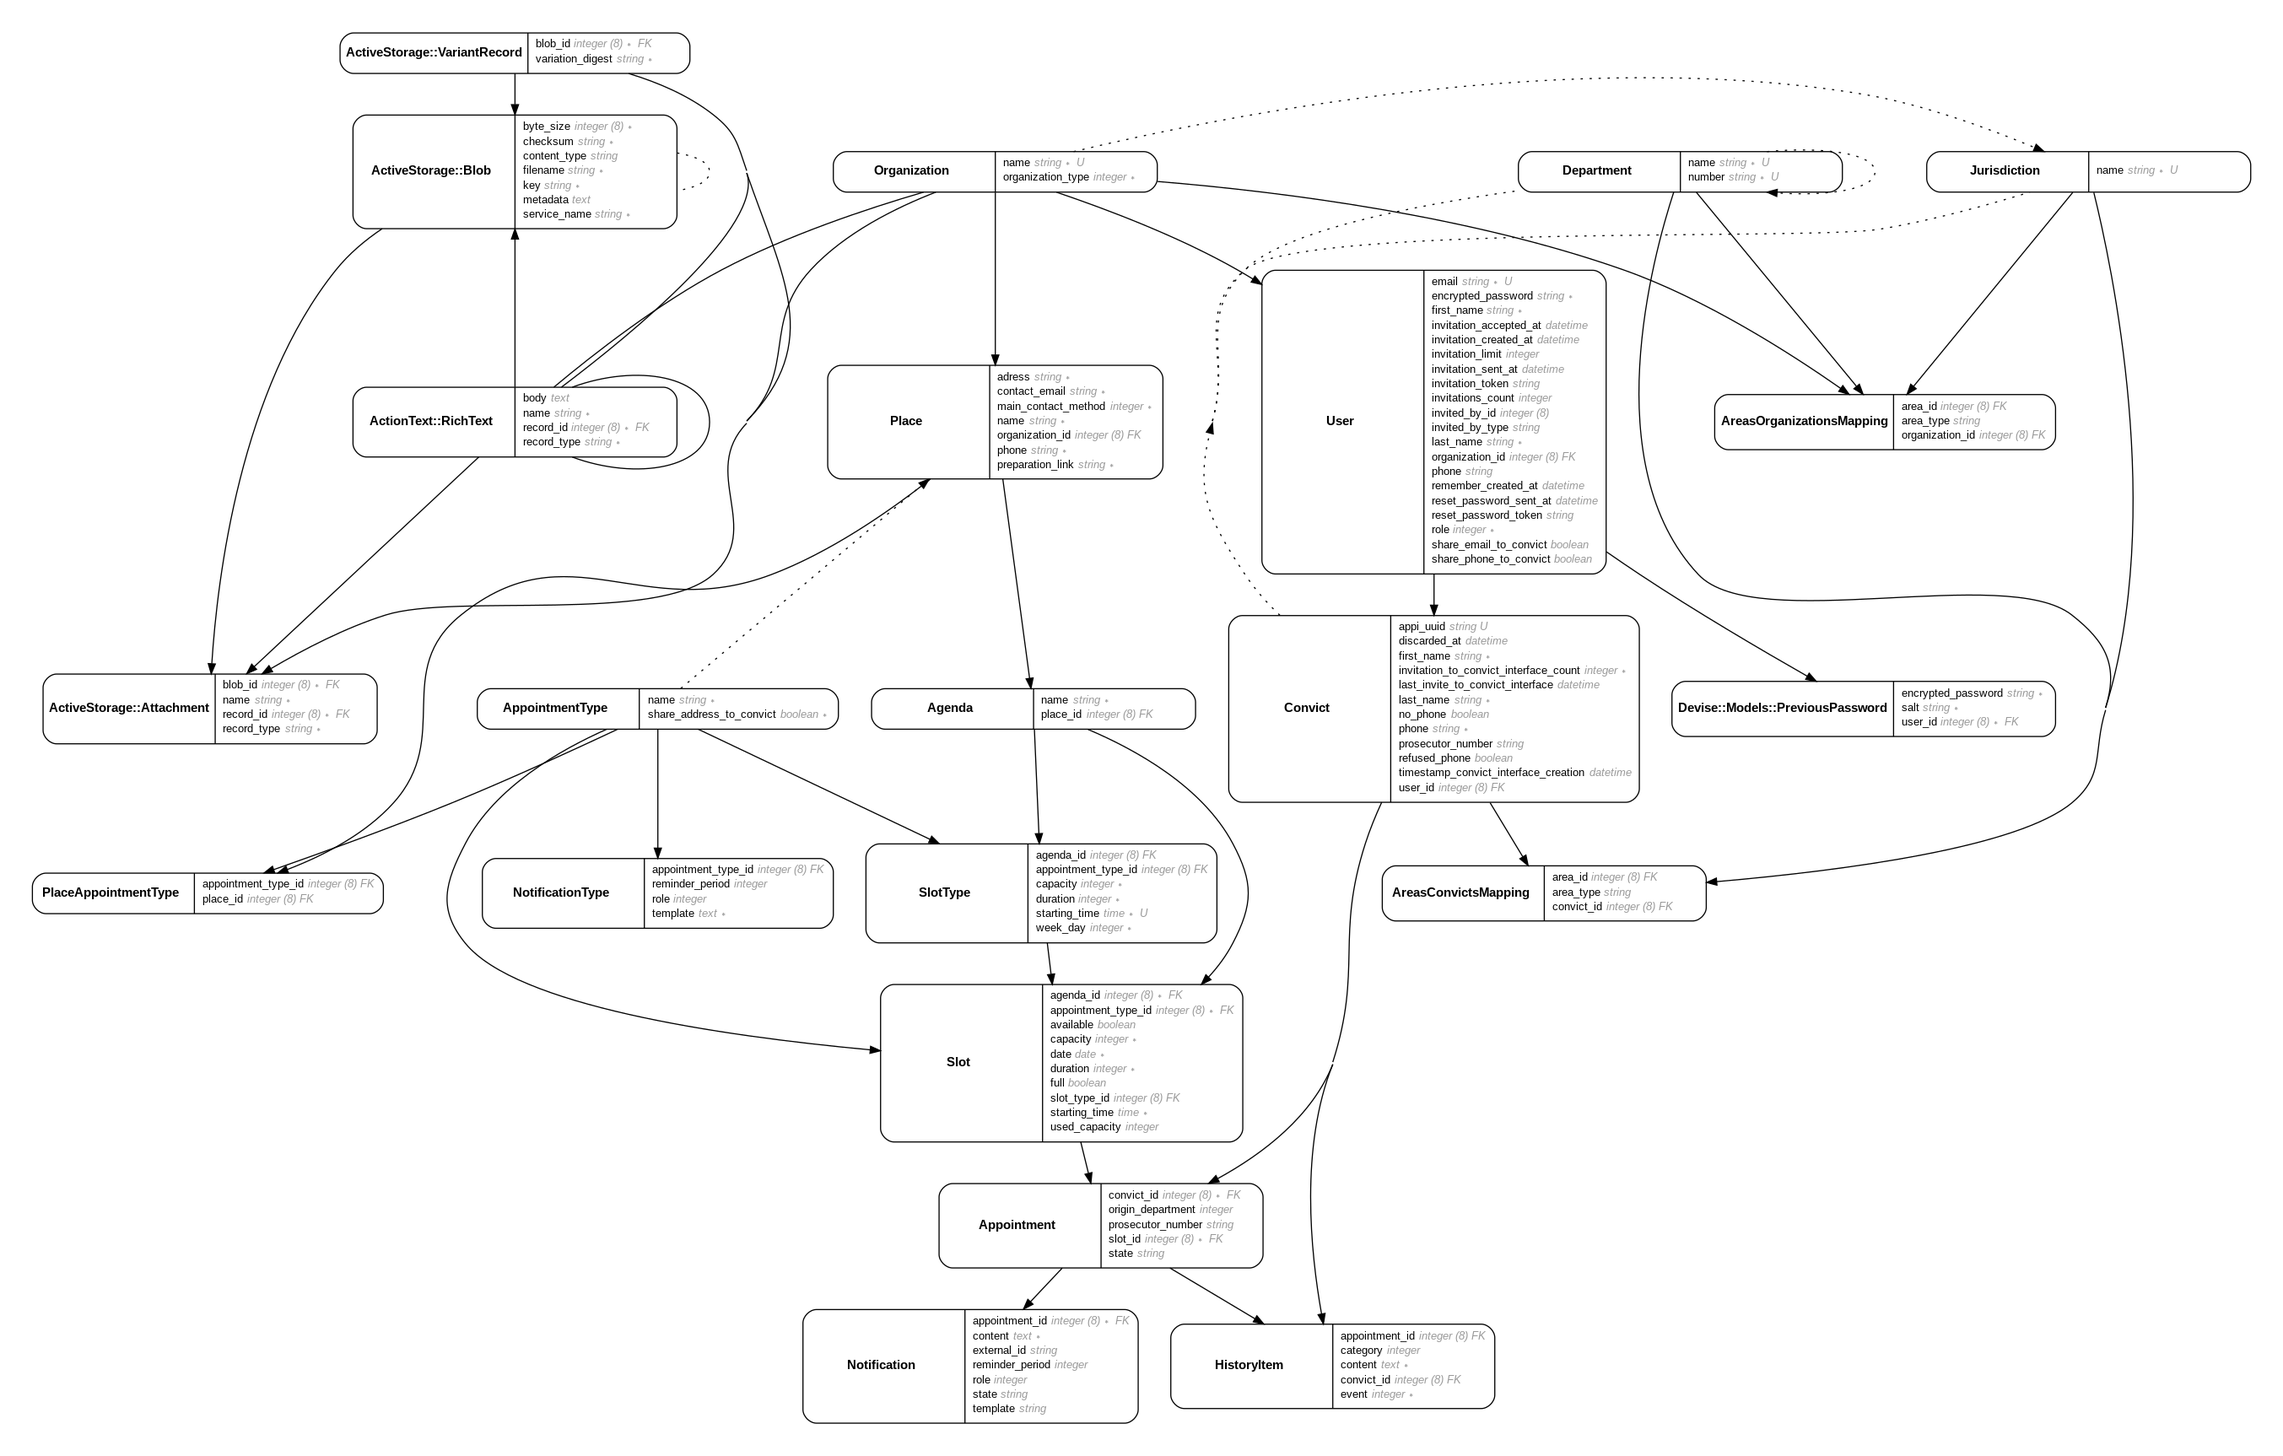
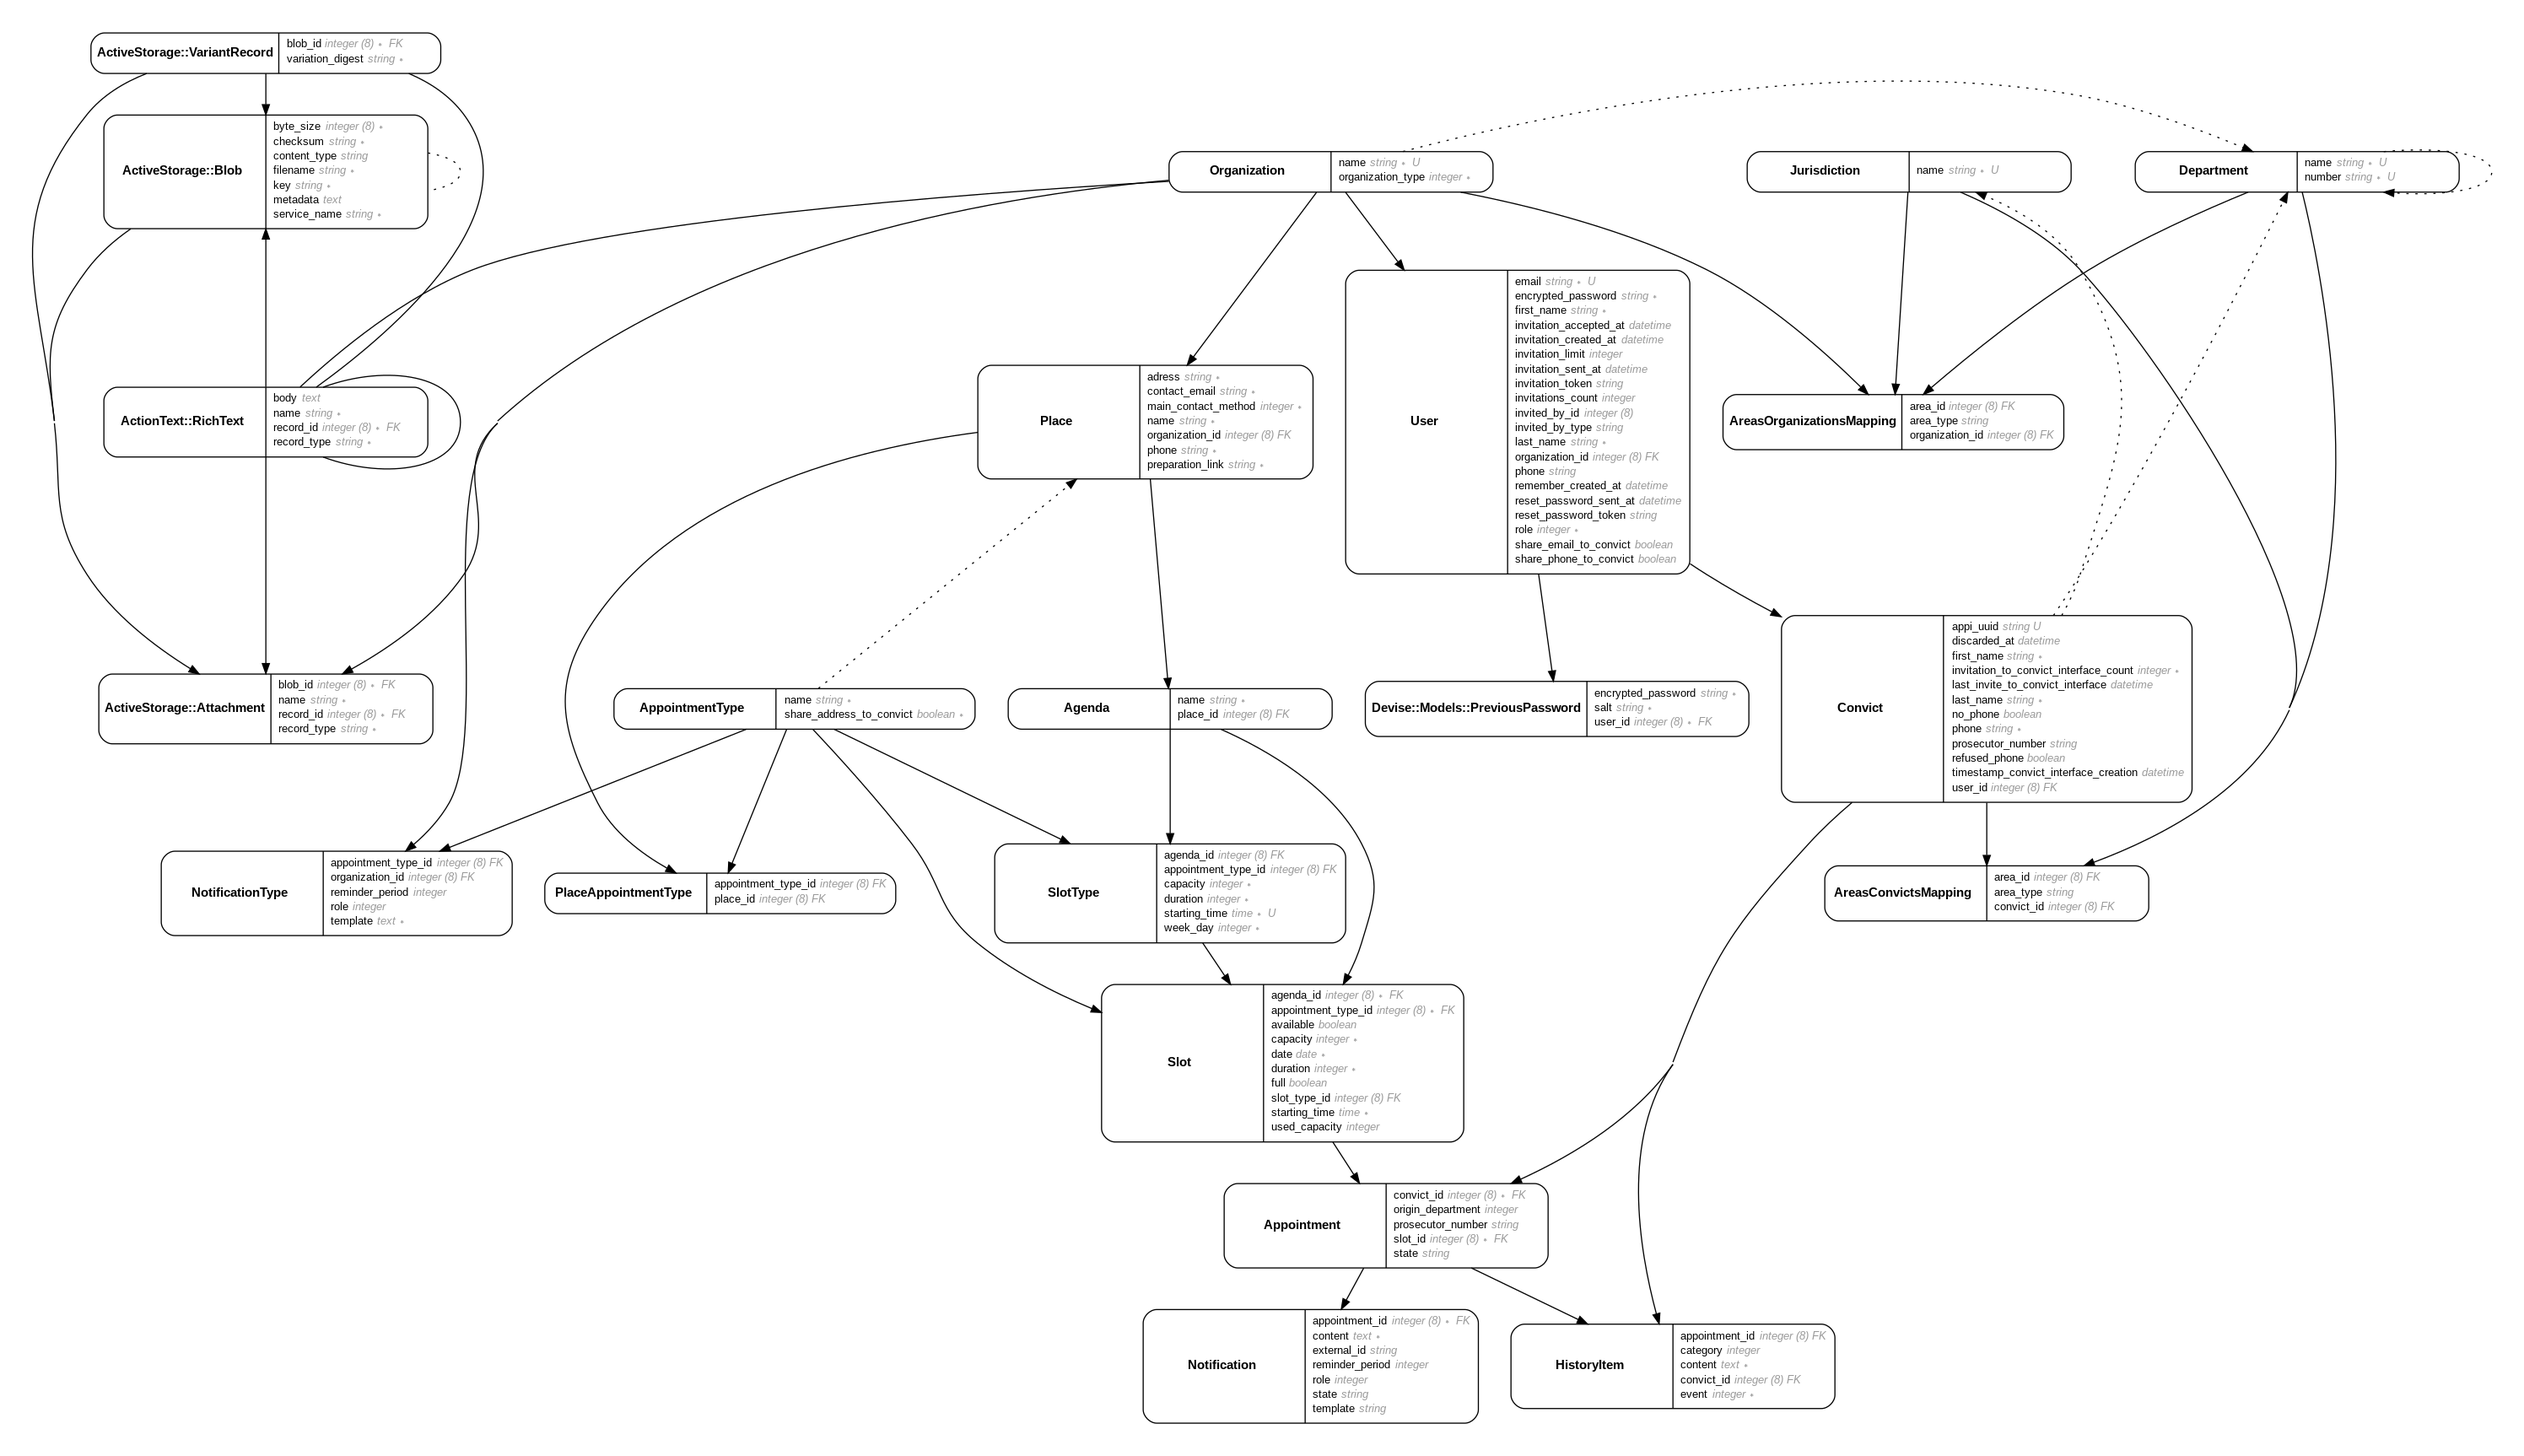
use a local notification_type depending on user organization

diff --git a/app/services/notification_factory.rb b/app/services/notification_factory.rb
@@ -1,39 +1,60 @@
 module NotificationFactory
-  def self.perform(appointment)
-    notif_types = appointment.slot.appointment_type.notification_types
+  class << self
+    def perform(appointment)
+      notif_types = select_notification_types(appointment)
 
-    notif_types.each do |notif_type|
-      template = setup_template(notif_type.template)
+      notif_types.each do |notif_type|
+        template = setup_template(notif_type.template)
 
-      Notification.create!(
-        appointment: appointment,
-        role: notif_type.role,
-        reminder_period: notif_type.reminder_period,
-        content: template % sms_data(appointment.slot)
-      )
+        Notification.create!(
+          appointment: appointment,
+          role: notif_type.role,
+          reminder_period: notif_type.reminder_period,
+          content: template % sms_data(appointment.slot)
+        )
+      end
     end
-  end
 
-  def self.setup_template(notif_type_template)
-    notif_type_template.gsub('{', '%{')
-                       .gsub('rdv.heure', 'appointment_hour')
-                       .gsub('rdv.date', 'appointment_date')
-                       .gsub('lieu.nom', 'place_name')
-                       .gsub('lieu.adresse', 'place_adress')
-                       .gsub('lieu.téléphone', 'place_phone')
-                       .gsub('lieu.contact', 'place_contact')
-                       .gsub('lieu.lien_info', 'place_preparation_link')
-  end
+    def select_notification_types(appointment)
+      orga = appointment.slot.agenda.place.organization
+      notif_types = appointment.slot.appointment_type.notification_types.where(organization: orga)
+      fill_with_default(appointment, notif_types)
+    end
 
-  def self.sms_data(slot)
-    {
-      appointment_hour: slot.starting_time.to_s(:lettered),
-      appointment_date: slot.date.to_s(:base_date_format),
-      place_name: slot.place_name,
-      place_adress: slot.place_adress,
-      place_phone: slot.place_display_phone(spaces: false),
-      place_contact: slot.place_contact_detail,
-      place_preparation_link: slot.place_preparation_link
-    }
+    def fill_with_default(appointment, notif_types)
+      default_notif_types = appointment.slot.appointment_type.notification_types.where(organization: nil)
+
+      NotificationType.roles.each_key do |role|
+        if notif_types.find_by(role: role).nil?
+          default = default_notif_types.where(role: role)
+          notif_types = notif_types.or(default) unless default.empty?
+        end
+      end
+
+      notif_types
+    end
+
+    def setup_template(notif_type_template)
+      notif_type_template.gsub('{', '%{')
+                         .gsub('rdv.heure', 'appointment_hour')
+                         .gsub('rdv.date', 'appointment_date')
+                         .gsub('lieu.nom', 'place_name')
+                         .gsub('lieu.adresse', 'place_adress')
+                         .gsub('lieu.téléphone', 'place_phone')
+                         .gsub('lieu.contact', 'place_contact')
+                         .gsub('lieu.lien_info', 'place_preparation_link')
+    end
+
+    def sms_data(slot)
+      {
+        appointment_hour: slot.starting_time.to_s(:lettered),
+        appointment_date: slot.date.to_s(:base_date_format),
+        place_name: slot.place_name,
+        place_adress: slot.place_adress,
+        place_phone: slot.place_display_phone(spaces: false),
+        place_contact: slot.place_contact_detail,
+        place_preparation_link: slot.place_preparation_link
+      }
+    end
   end
 end

diff --git a/spec/features/notification_types_spec.rb b/spec/features/notification_types_spec.rb
@@ -1,23 +1,71 @@
 require 'rails_helper'
 
-RSpec.feature 'NotificationType', type: :feature, focus: true do
+RSpec.feature 'NotificationType', type: :feature do
   before do
-    create_admin_user_and_login
+    @user = create_admin_user_and_login
   end
 
-  describe 'update' do
-    it 'updates a default template set' do
+  describe 'Text message construction' do
+    it 'uses a specific template for an organization', js: true do
+      orga1 = create :organization, :with_department, name: 'SPIP 65'
+      orga2 = create :organization, :with_department, name: 'SPIP 42'
 
-    end
+      @user.organization = orga1
 
-    it 'updates an organization specific template set' do
+      apt_type = create :appointment_type, :with_notification_types, name: 'RDV de suivi SPIP'
 
+      create :notification_type, appointment_type: apt_type,
+                                 organization: orga1,
+                                 role: :summon,
+                                 template: 'Bienvenue au SPIP 65'
+      create :notification_type, appointment_type: apt_type,
+                                 organization: orga2,
+                                 role: :summon,
+                                 template: 'Bienvenue au SPIP 42'
+
+      convict = create :convict, first_name: 'JP', last_name: 'Durand'
+      create :areas_convicts_mapping, convict: convict, area: orga1.departments.first
+      place = create :place, name: 'SPIP 65', appointment_types: [apt_type], organization: orga1
+      create :agenda, place: place, name: 'Agenda SPIP 65'
+
+      visit new_appointment_path
+
+      first('.select2-container', minimum: 1).click
+      find('li.select2-results__option', text: 'DURAND Jp').click
+
+      select 'RDV de suivi SPIP', from: :appointment_appointment_type_id
+      select 'SPIP 65', from: 'Lieu'
+
+      fill_in 'appointment_slot_date', with: (Date.civil(2025, 4, 18)).strftime('%Y-%m-%d')
+
+      within first('.form-time-select-fields') do
+        select '15', from: 'appointment_slot_starting_time_4i'
+        select '00', from: 'appointment_slot_starting_time_5i'
+      end
+
+      click_button 'Enregistrer'
+
+      expect { click_button 'Oui' }.to change { Appointment.count }.by(1)
+
+      notif = Notification.find_by(role: :summon, appointment: convict.appointments.last)
+
+      expect(notif.content).to eq('Bienvenue au SPIP 65')
     end
   end
 
-  xdescribe 'creation' do
-    it 'creates a batch of notification_type after organization creation' do
-
-    end
-  end
+  # xdescribe '#update' do
+  #   it 'updates a default template set' do
+  #
+  #   end
+  #
+  #   it 'updates an organization specific template set' do
+  #
+  #   end
+  # end
+  #
+  # xdescribe '#create' do
+  #   it 'creates a batch of notification_type after organization creation' do
+  #
+  #   end
+  # end
 end

diff --git a/db/schema.rb b/db/schema.rb
@@ -10,7 +10,7 @@
 #
 # It's strongly recommended that you check this file into your version control system.
 
-ActiveRecord::Schema.define(version: 2022_04_27_203023) do
+ActiveRecord::Schema.define(version: 2022_05_31_131636) do
 
   # These are extensions that must be enabled in order to support this database
   enable_extension "plpgsql"
@@ -156,7 +156,9 @@ ActiveRecord::Schema.define(version: 2022_04_27_203023) do
     t.datetime "created_at", precision: 6, null: false
     t.datetime "updated_at", precision: 6, null: false
     t.integer "reminder_period", default: 0
+    t.bigint "organization_id"
     t.index ["appointment_type_id"], name: "index_notification_types_on_appointment_type_id"
+    t.index ["organization_id"], name: "index_notification_types_on_organization_id"
   end
 
   create_table "notifications", force: :cascade do |t|
@@ -298,6 +300,7 @@ ActiveRecord::Schema.define(version: 2022_04_27_203023) do
   add_foreign_key "history_items", "appointments"
   add_foreign_key "history_items", "convicts"
   add_foreign_key "notification_types", "appointment_types"
+  add_foreign_key "notification_types", "organizations"
   add_foreign_key "notifications", "appointments"
   add_foreign_key "places", "organizations"
   add_foreign_key "previous_passwords", "users"

diff --git a/spec/models/notification_type_spec.rb b/spec/models/notification_type_spec.rb
@@ -2,6 +2,7 @@ require 'rails_helper'
 
 RSpec.describe NotificationType, type: :model do
   it { should belong_to(:appointment_type) }
+  it { should belong_to(:organization).optional(true) }
 
   it { should define_enum_for(:role).with_values(%i[summon reminder cancelation no_show reschedule]) }
   it { should define_enum_for(:reminder_period).with_values(%i[one_day two_days]) }

diff --git a/spec/models/slot_spec.rb b/spec/models/slot_spec.rb
@@ -36,7 +36,7 @@ RSpec.describe Slot, type: :model do
 
       it 'it is valid if date is not a weekend nor a holiday' do
         slot = build(:slot, agenda: agenda, appointment_type: apt_type,
-                            date: Date.today.next_occurring(:monday))
+                            date: Date.civil(2022, 5, 31))
 
         expect(slot).to be_valid
       end

diff --git a/app/models/notification_type.rb b/app/models/notification_type.rb
@@ -2,6 +2,7 @@ class NotificationType < ApplicationRecord
   has_paper_trail
 
   belongs_to :appointment_type
+  belongs_to :organization, optional: true
   validates :template, presence: true
   validate :template_format
 

diff --git a/db/migrate/20220531131636_add_reference_to_organization_on_notification_type.rb b/db/migrate/20220531131636_add_reference_to_organization_on_notification_type.rb
@@ -1,0 +1,5 @@
+class AddReferenceToOrganizationOnNotificationType < ActiveRecord::Migration[6.1]
+  def change
+    add_reference :notification_types, :organization, foreign_key: true
+  end
+end
